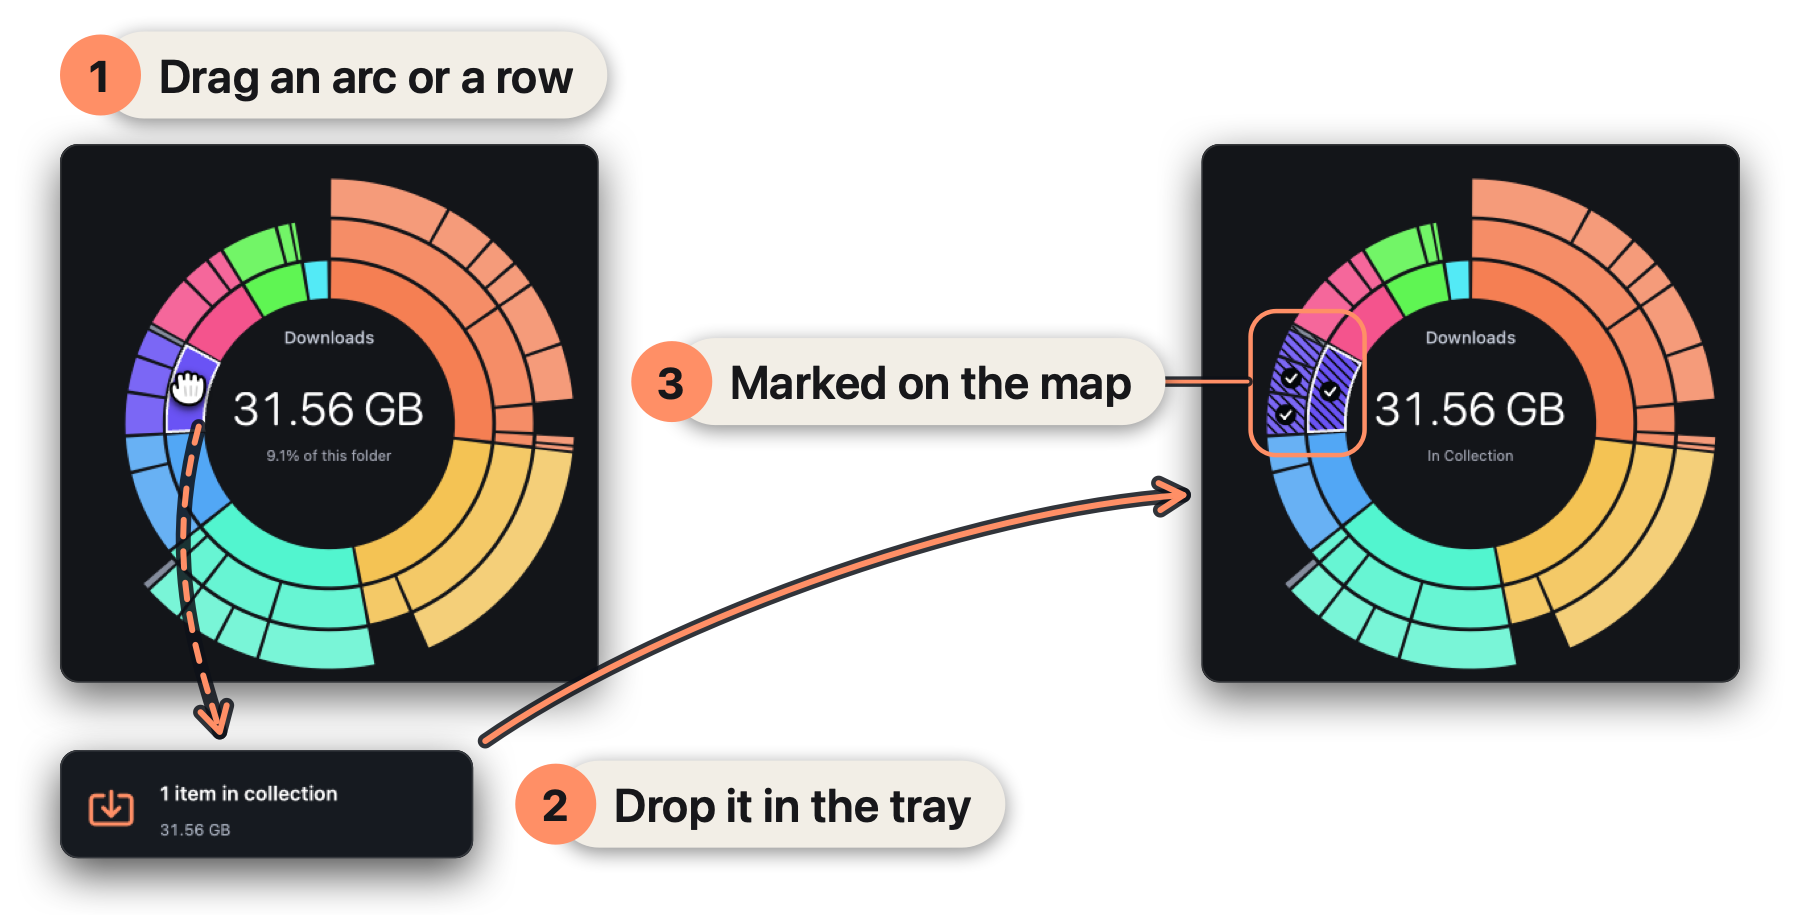
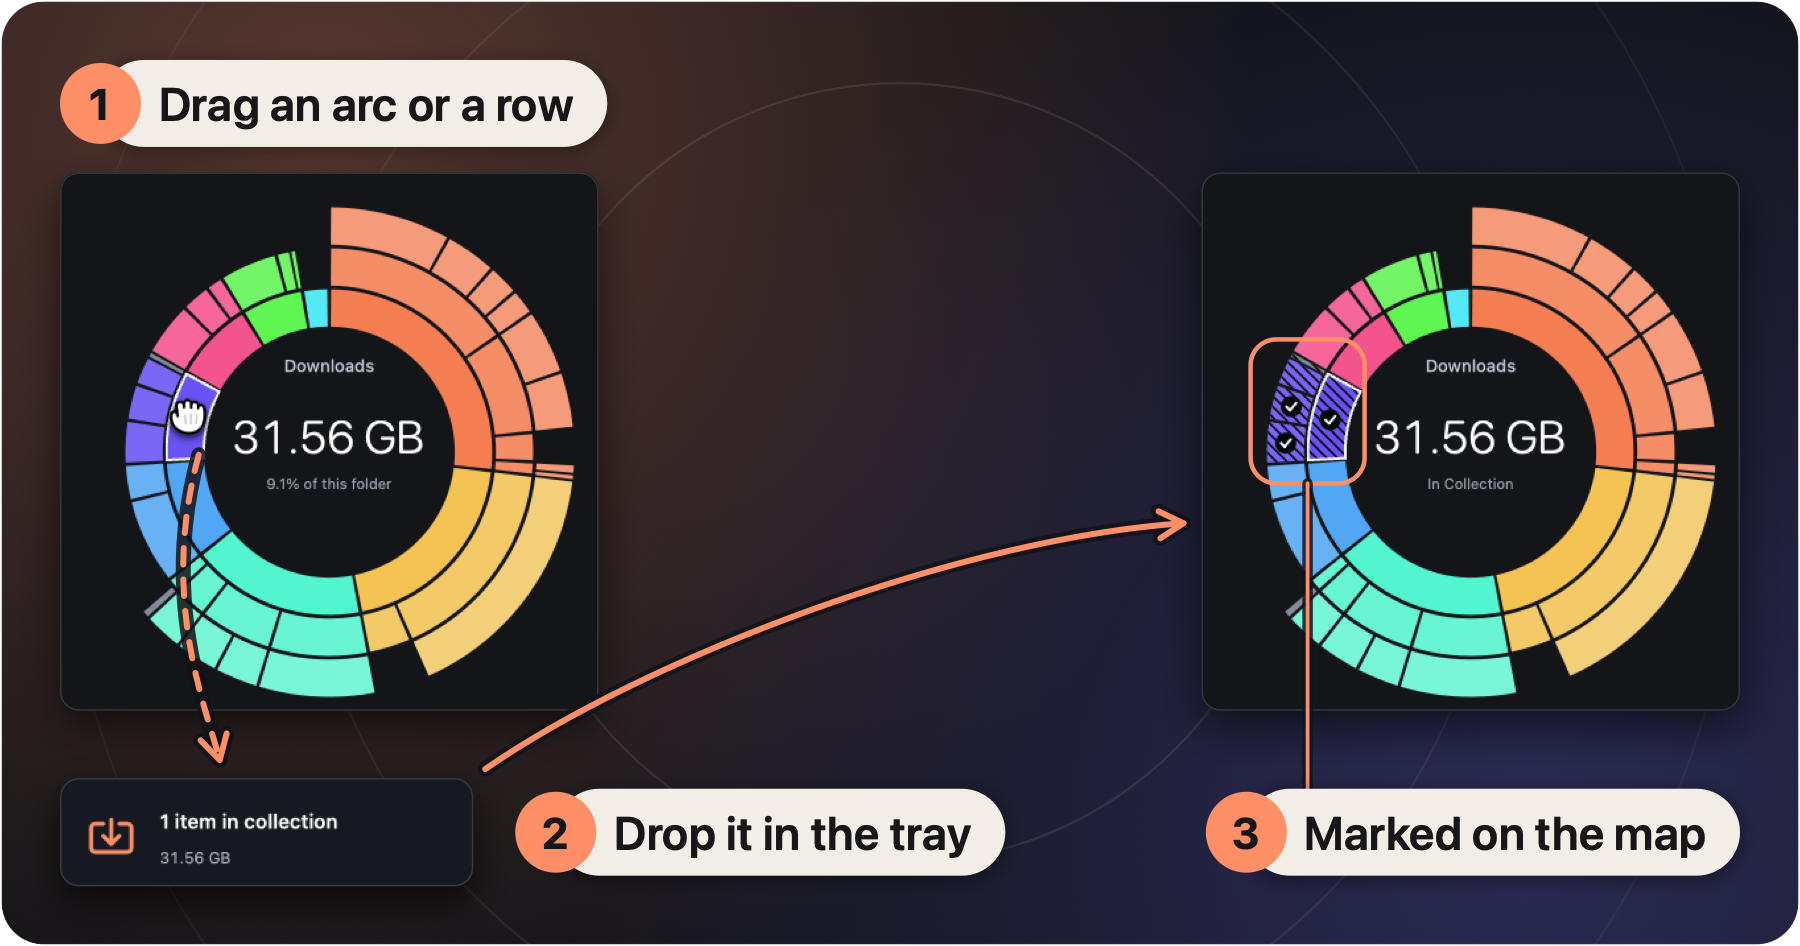
docs: spotlight README art, collect flow down to the tray

diff --git a/README.md b/README.md
@@ -21,7 +21,10 @@
 <br>
 
 <p align="center">
-  <img src="docs/screenshots/orbit-hero.png" width="100%" alt="The Orbit Disk window, showing a sample Home folder of 346 GB and 77,561 files. Projects, the largest folder (92.86 GB, 26.8%), is selected on the map and in the Contents list. Downloads (31.56 GB) is already collected: its arcs are striped and checked, its row reads In Collection, and the tray shows 1 item in collection next to the Review Collection button.">
+<picture>
+  <source media="(prefers-color-scheme: dark)" srcset="docs/screenshots/orbit-hero-dark.png">
+  <img src="docs/screenshots/orbit-hero-light.png" width="100%" alt="The Orbit Disk window, showing a sample Home folder of 346 GB and 77,561 files. Projects, the largest folder (92.86 GB, 26.8%), is selected on the map and in the Contents list. Downloads (31.56 GB) is already collected: its arcs are striped and checked, its row reads In Collection, and the tray shows 1 item in collection next to the Review Collection button.">
+</picture>
 </p>
 <p align="center"><sub>Screenshots show the app’s built-in sample data.</sub></p>
 
@@ -49,7 +52,7 @@ Pointing at an arc shows a tooltip with its size and highlights its row in the C
 <p>
 <picture>
   <source media="(prefers-color-scheme: dark)" srcset="docs/art/card-collect-dark.png">
-  <img src="docs/art/card-collect-light.png" width="100%" alt="Step 1, drag an arc or a row: a grabbing pointer holds the selected Downloads arc on the Home map, whose center reads Downloads, 31.56 GB. Step 2, drop it in the tray: a dashed arrow leads down to the tray under the map, now showing 1 item in collection, 31.56 GB. Step 3, marked on the map: an arrow leads to the same map afterwards, where the Downloads arcs are circled, striped and checked.">
+  <img src="docs/art/card-collect-light.png" width="100%" alt="Step 1, drag an arc or a row: a grabbing pointer holds the selected Downloads arc on the Home map, whose center reads Downloads, 31.56 GB. Step 2, drop it in the tray: a dashed arrow leads down to the tray under the map, now showing 1 item in collection, 31.56 GB. Step 3, marked on the map: an arrow leads to the same map afterwards, where a leader points up to the Downloads arcs, circled, striped and checked.">
 </picture>
 </p>
 
